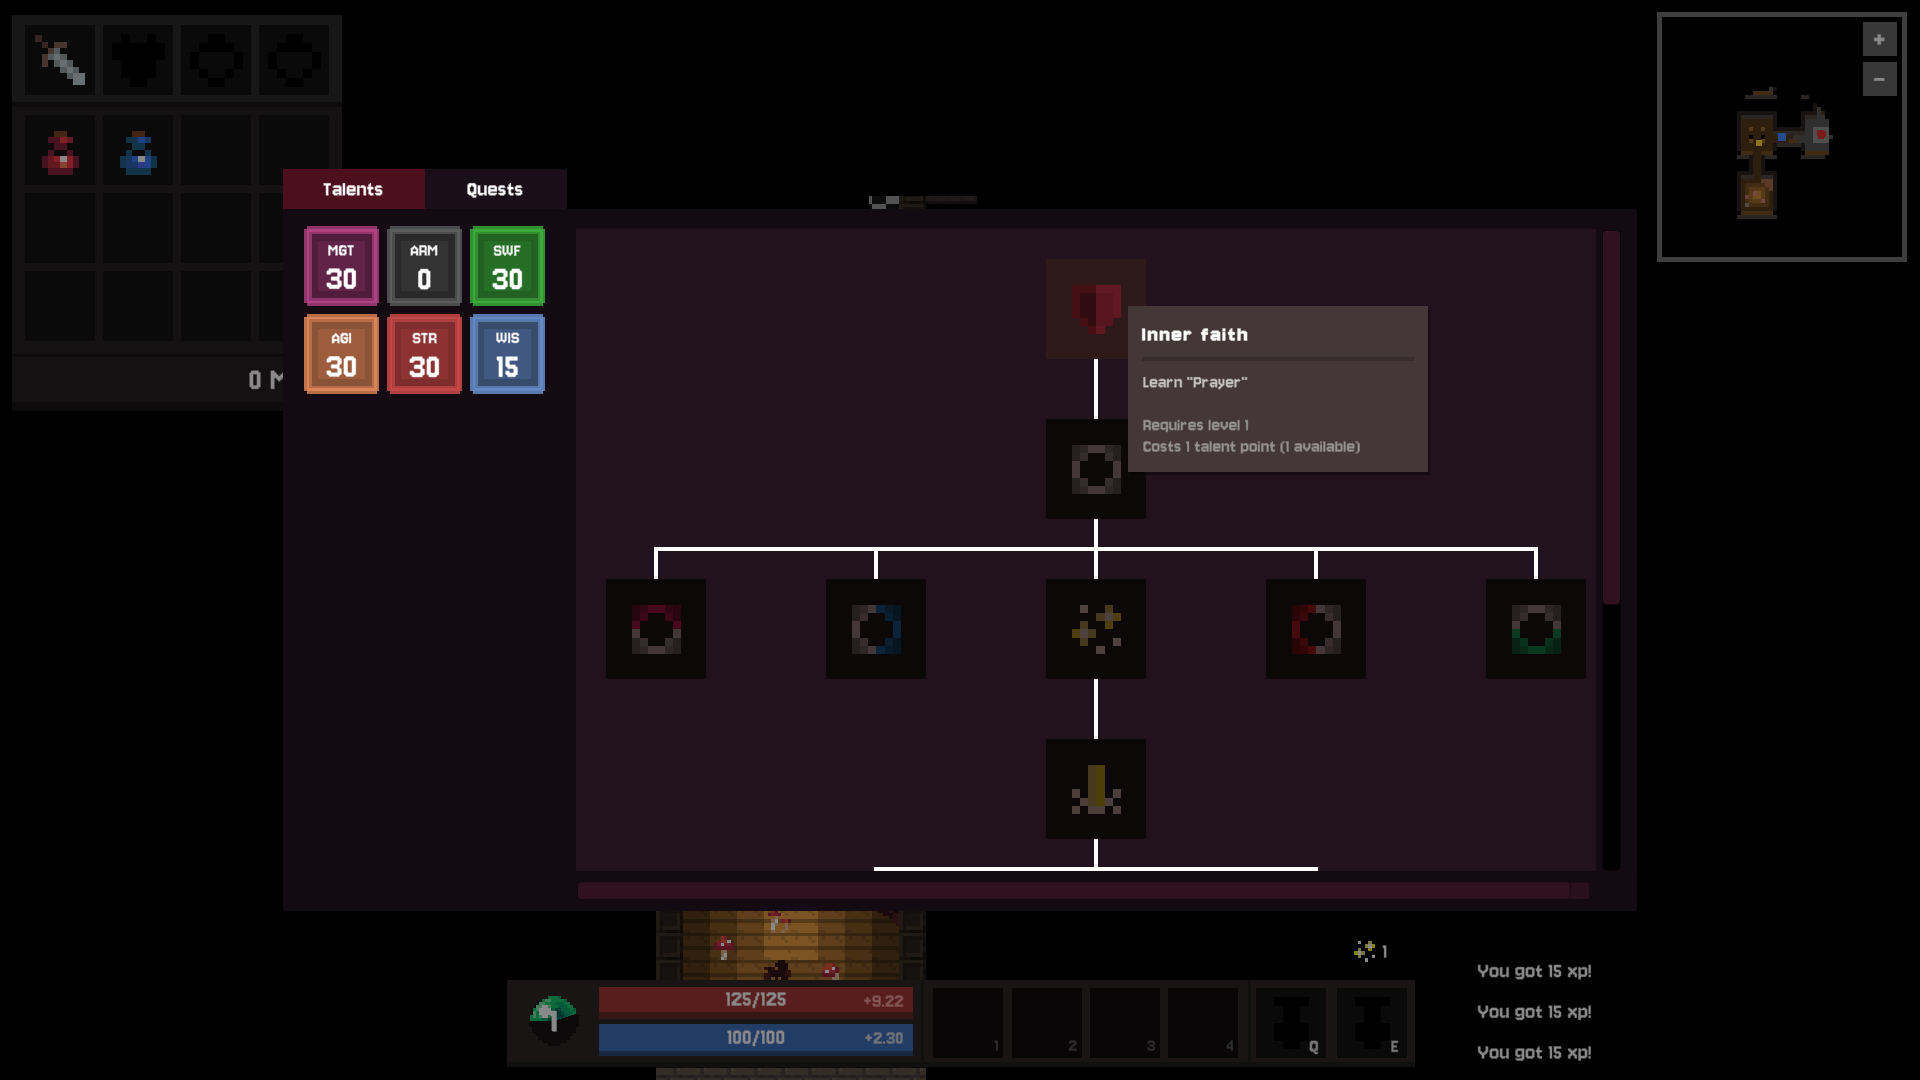
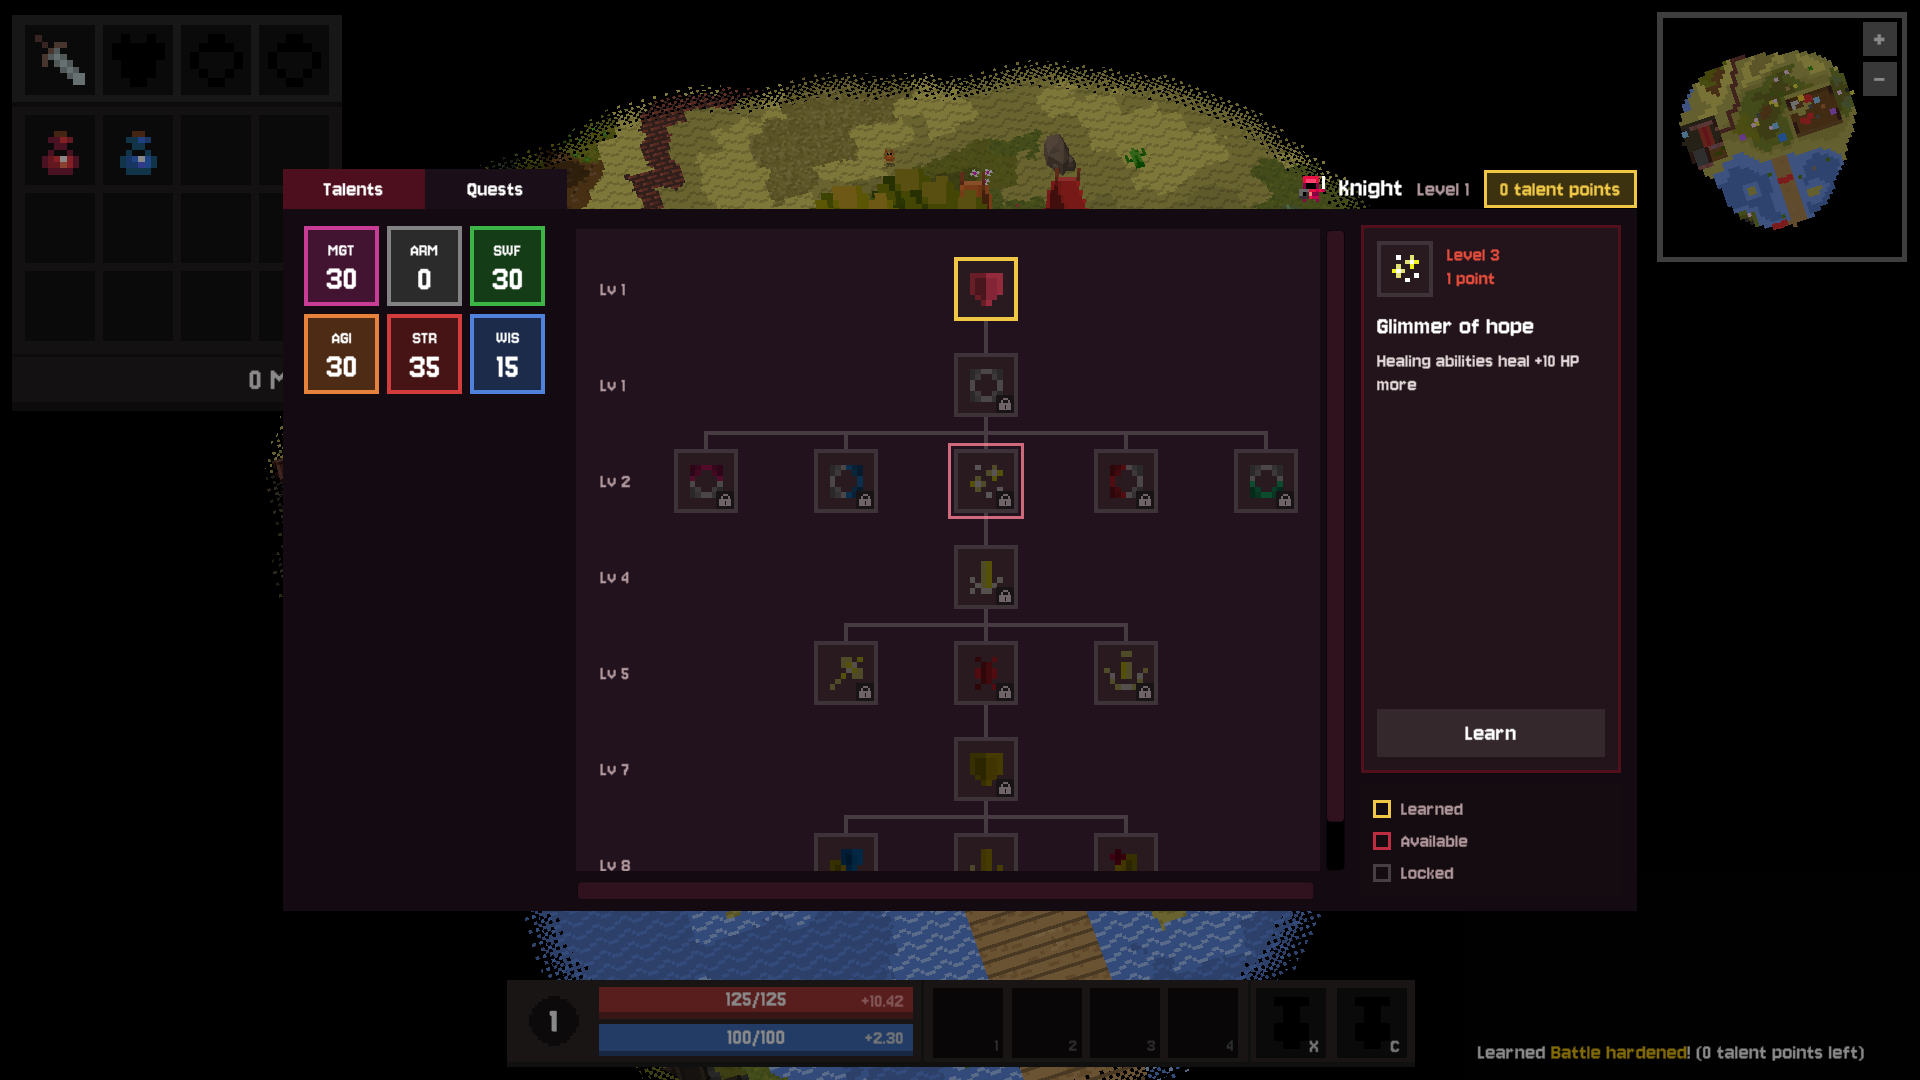
More screenshots

diff --git a/src/components/ScreenshotGallery.vue b/src/components/ScreenshotGallery.vue
@@ -88,7 +88,7 @@
 <script setup lang="ts">
 import { onMounted, ref } from "vue";
 
-const MAX_SCREENSHOTS = 5;
+const MAX_SCREENSHOTS = 6;
 
 const shots = ref<string[]>([]);
 const index = ref(0);
